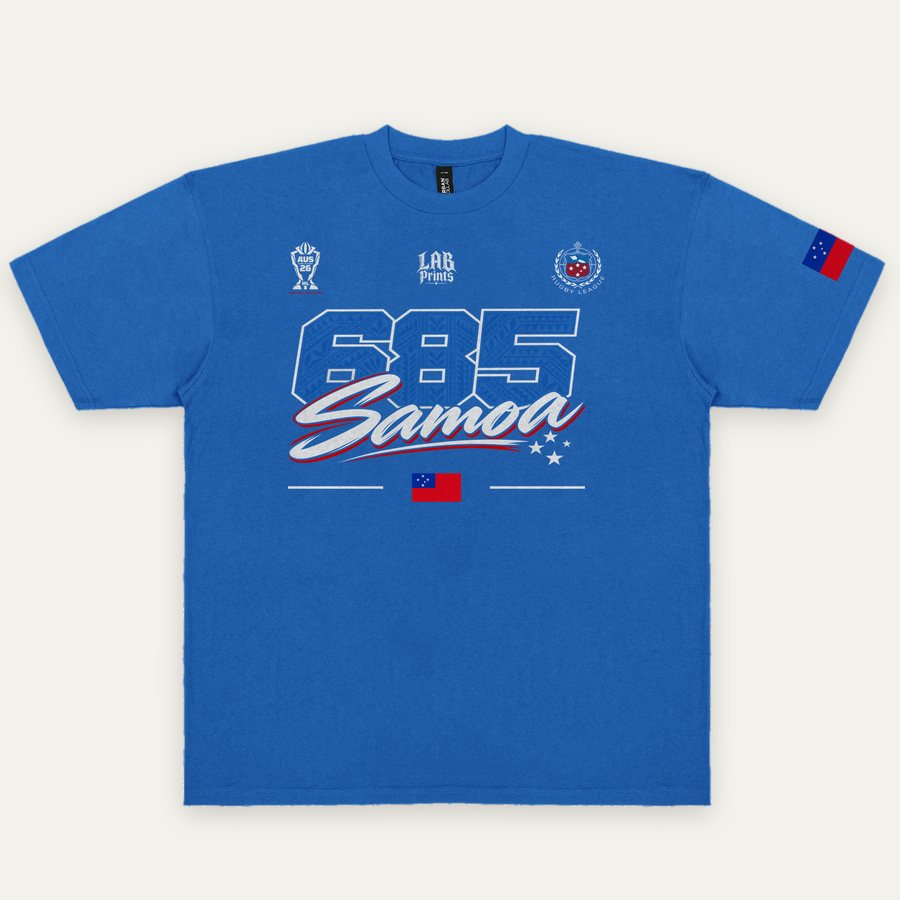
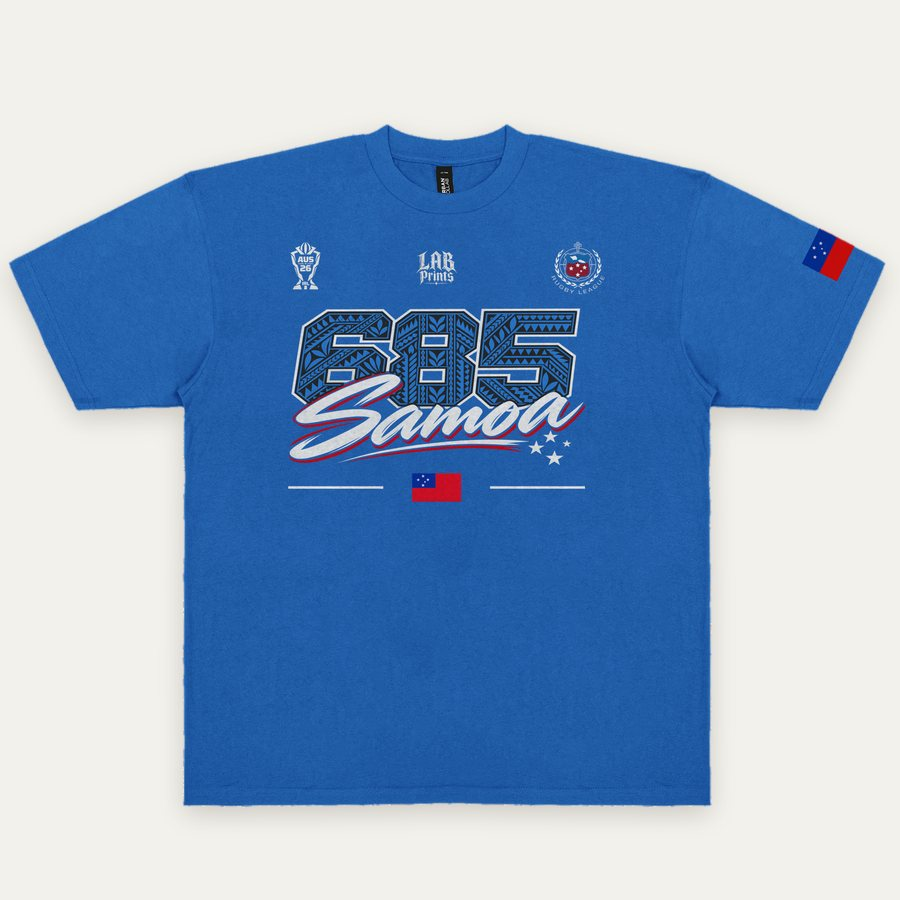
Toa Samoa: final artwork, dark and light versions
Light version is used on white tees and the Heather Grey box fit.
Regenerated all 12 mockups and the share image.

Changed region(s): [[0.3111, 0.3422, 0.6533, 0.4667]]

diff --git a/toa-samoa/tools/make_mockups.py b/toa-samoa/tools/make_mockups.py
@@ -21,6 +21,7 @@ SIZE = 900                    # output px
 BG = (243, 241, 236)          # page --bg-2, so white tees still read
 A3_W_CM, A3_H_CM = 42.0, 29.7
 FLAG_W_CM = 9.0               # adult sleeve flag width
+LIGHT_EXTRA = {("boxfit", "grey")}   # light garments (besides white) that get the white-tee artwork
 
 # Per-garment geometry, measured on the blank photos (pixels in the source image).
 #   px_cm: pixels per cm at the chest   cx: chest centre x   top: print top y
@@ -148,7 +149,7 @@ def main(art_path, light_art_path=None):
             tee.putalpha(mask)
             base.alpha_composite(tee)
 
-            a = light_print if colour == "white" else dark_print
+            a = light_print if colour == "white" or (g, colour) in LIGHT_EXTRA else dark_print
             place(base, a, round(cfg["cx"] - a.width / 2), cfg["top"])
             sx, sy, _ = cfg["sleeve"]
             place(base, flag, round(sx - flag.width / 2), round(sy - flag.height / 2), clip=mask)

diff --git a/toa-samoa/SETUP.md b/toa-samoa/SETUP.md
@@ -48,7 +48,7 @@ It trims the artwork, fits it inside an A3 landscape box (42 × 29.7 cm) on the 
 (Black, Royal Blue, Grey, White × box fit, adult and kids; kids use an A4 landscape box), adds a 9 cm Samoa flag
 (7 cm on kids) centred on the top seam of the left sleeve (top edge toward the shoulder, long edge parallel to
 the sleeve opening), and overwrites `img/`. The sleeve flag uses the same red and blue as the flag in the artwork.
-Box fit grey = Urban Collab Heather Grey. Adult and kids grey = Cloke Dark Grey. Kids = Cloke T102 Outline Tee Kids.
+Box fit grey = Urban Collab Heather Grey (light, so it gets the white-tee artwork too; see `LIGHT_EXTRA`). Adult and kids grey = Cloke Dark Grey. Kids = Cloke T102 Outline Tee Kids.
 Also replace `og.jpg` (the share image).
 
 ## After the 9th
